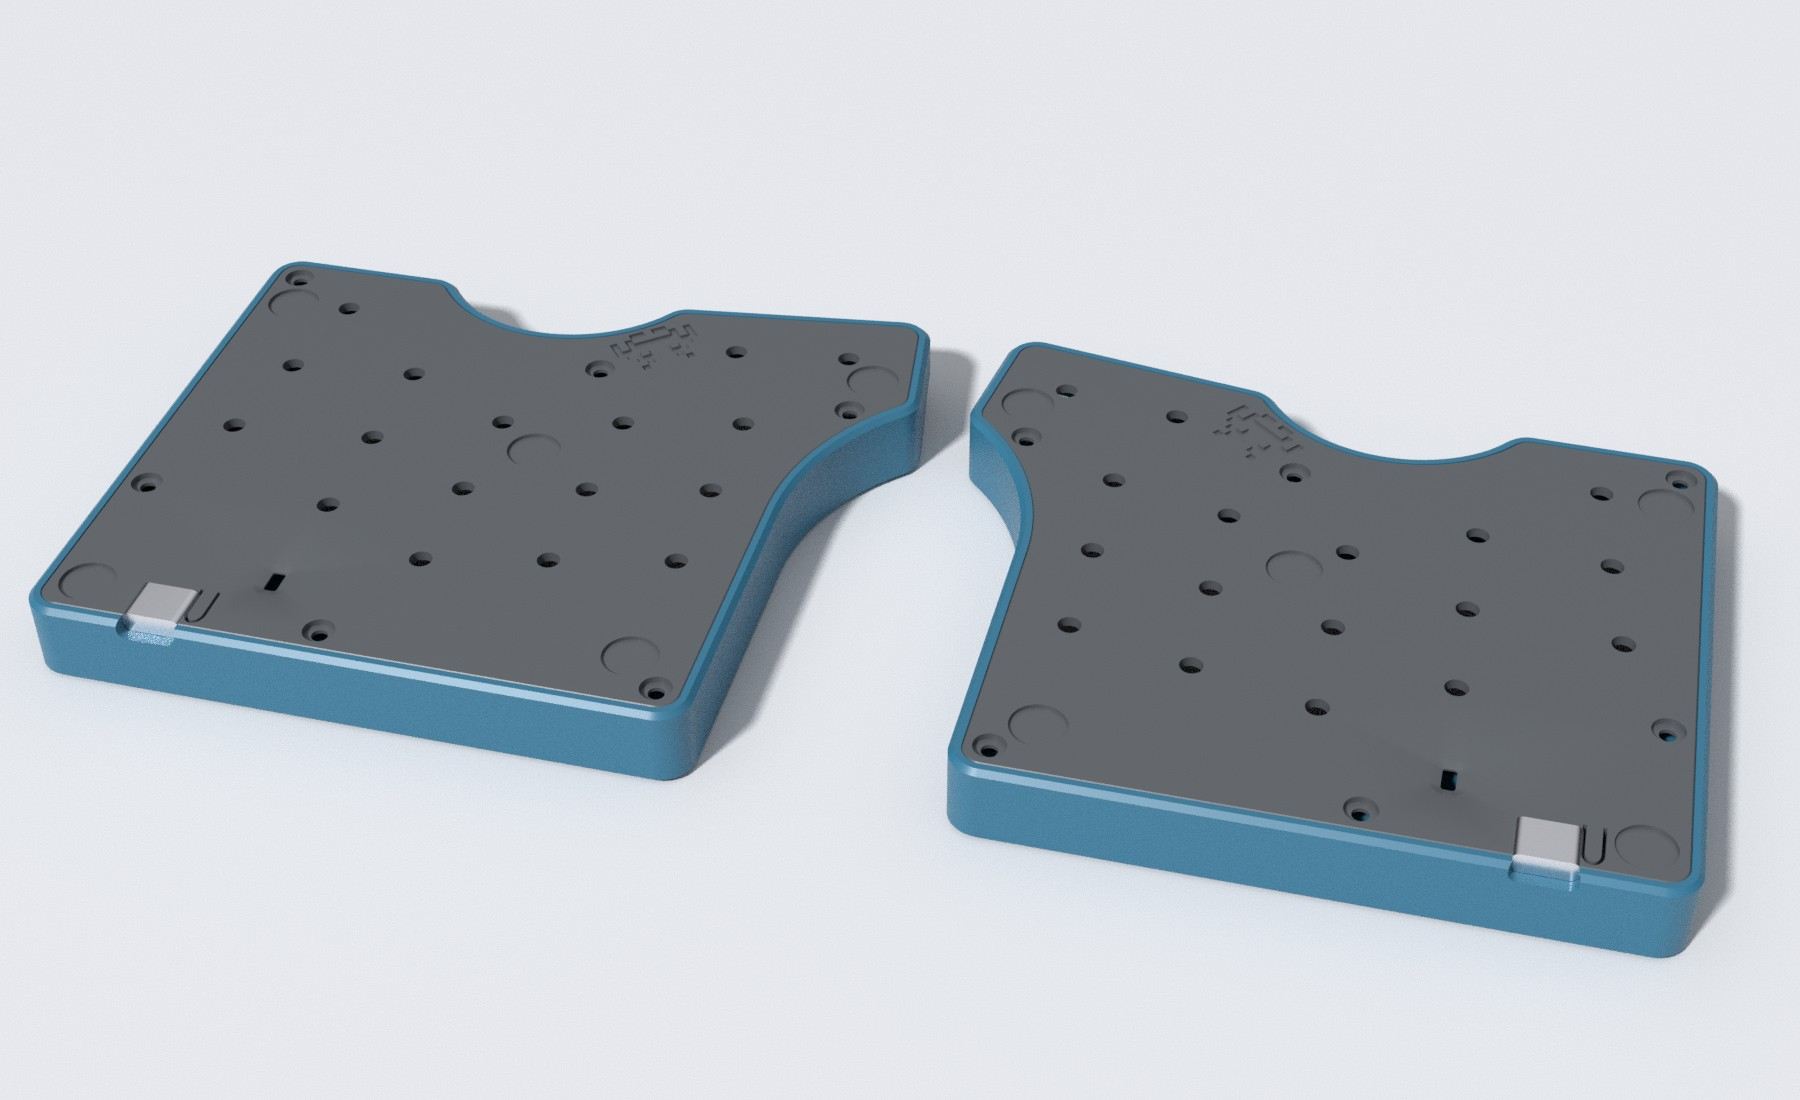
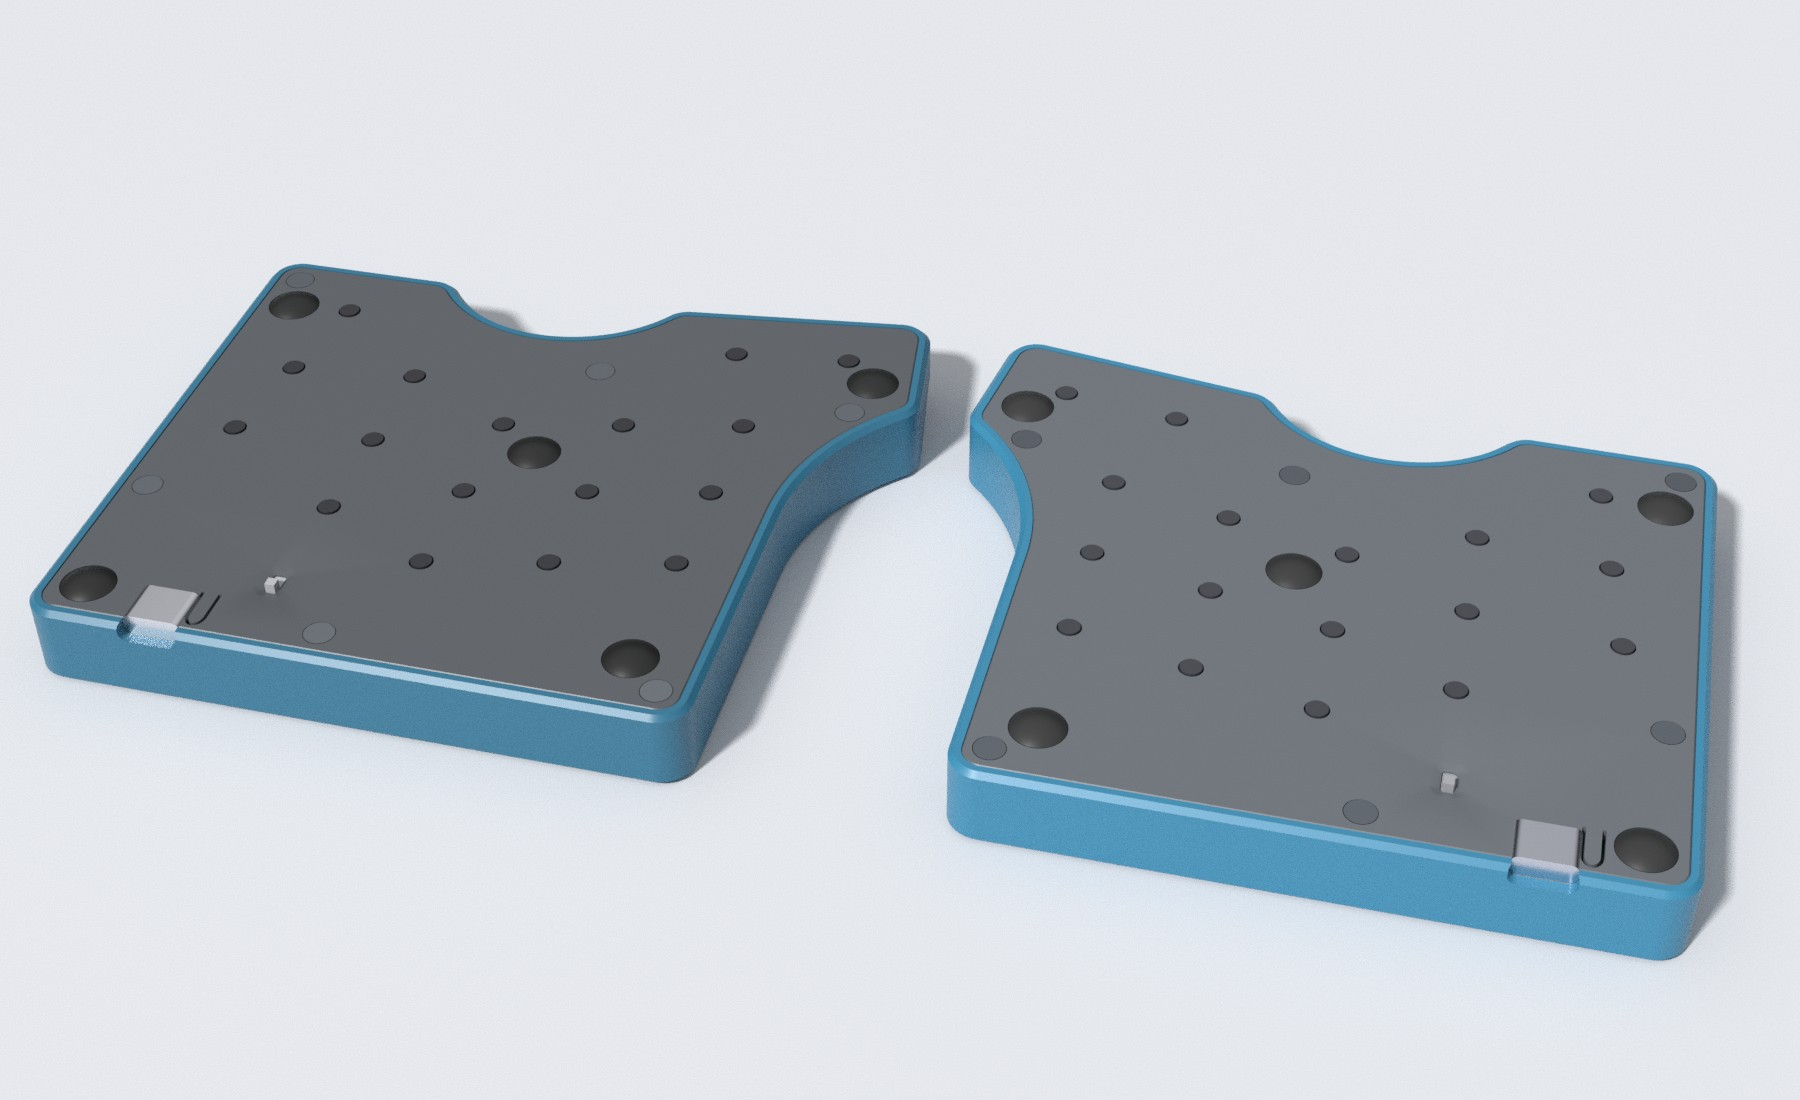
docs: new renders (transport, ghost) and a README that shows them

diff --git a/scripts/render_blender.py b/scripts/render_blender.py
@@ -169,24 +169,19 @@ def render(name, objects, direction, ortho=False, flip=False, zoom=1.0):
 
 
 def scene(pose, groups=None, ghost=False):
-    """The meshes of a pose. Without groups every part is loaded. In the ghost style the case parts are see-through."""
+    """The meshes of a pose. In the ghost style the case parts are see-through."""
     with open(os.path.join(MESH_DIR, pose, "scene.json")) as manifest:
         entries = json.load(manifest)
     return [load(pose, entry, ghost) for entry in entries if groups is None or entry["group"] in groups]
 
 
-OUTSIDE = ("keywell", "keyplate", "bottom", "switches", "keycaps", "xiao", "usb", "magnets")
-
 os.makedirs(IMAGE_DIR, exist_ok=True)
 
 reset_scene()
-render("hero", scene("assembled", OUTSIDE), direction=(0.25, -1.0, 0.85), zoom=1.3)
+render("hero", scene("assembled"), direction=(0.25, -1.0, 0.85), zoom=1.3)
 
 reset_scene()
-render("top", scene("assembled", OUTSIDE), direction=(0, 0, 1), ortho=True, zoom=1.2)
-
-reset_scene()
-render("bottom", scene("assembled", ("keywell", "bottom", "xiao", "usb")), direction=(0.25, -1.0, 0.85), flip=True, zoom=1.3)
+render("bottom", scene("assembled"), direction=(0.25, -1.0, 0.85), flip=True, zoom=1.3)
 
 reset_scene()
 render("exploded", scene("exploded"), direction=(0.9, -1.0, 0.75), zoom=0.95)
@@ -195,4 +190,4 @@ reset_scene()
 render("transport", scene("transport"), direction=(0.25, -1.0, 0.45), zoom=1.2)
 
 reset_scene()
-render("ghost", scene("assembled", ghost=True), direction=(0.25, -1.0, 0.85), zoom=1.3)
+render("ghost", scene("transport", ghost=True), direction=(0.25, -1.0, 0.85), zoom=1.3)

diff --git a/README.md b/README.md
@@ -28,7 +28,7 @@ The images are renders, not photos.
 - Five rubber bumpers in each half.
 - No snap fits. Heat-set inserts and M2 screws hold the case together.
 
-![Top view of both halves](docs/images/top.jpg)
+![The halves snap together for safe transport](docs/images/transport.jpg)
 
 ## Bill of materials
 
@@ -48,6 +48,7 @@ Quantities are for both halves.
 
 The Hattara keycaps are designed for SLS and MJF printing.
 Check the repository of the keycaps for the files and the license.
+![See-through shell shows how all features are crammed into a tiny case](docs/images/ghost.jpg)
 
 ## Printing
 
@@ -149,7 +150,7 @@ The dev shell installs the Python dependencies with `uv`.
 | Command | What it does |
 | --- | --- |
 | `task viewer` | Starts the OCP CAD viewer on port 3939. |
-| `task view -- <what>` | Shows `assembled`, `transport` or `exploded` in the viewer, or a coupon plate. Add `--compact` for the compact variant or `--ghost` to see through the case parts. Writes no files. |
+| `task view -- <what>` | Shows `assembled`, `transport` or `exploded` in the viewer, or a coupon plate. Add `--compact` for the compact variant or `--ghost` to see through some parts. Writes no files. |
 | `task export` | Writes the STEP files of the case to `build/step`. Run `task export -- --compact` for the compact variant. |
 | `task export -- coupons` | Writes `build/coupons.stl`. |
 | `task export -- coupons-engraving` | Writes `build/coupons_engraving.stl`. |
